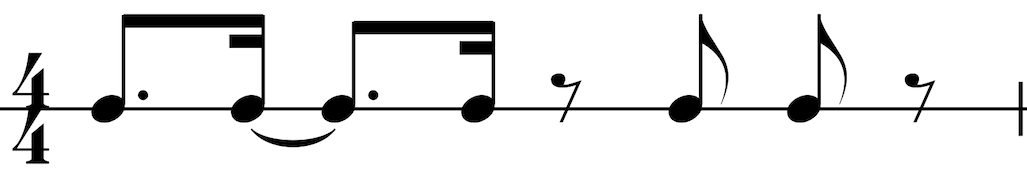
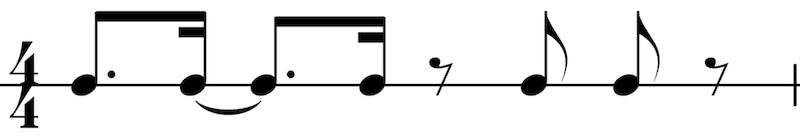
rexize

diff --git a/04_micro/index.html b/04_micro/index.html
@@ -30,7 +30,7 @@ I set out to write an Arduino code that would control a servo motor. The servo m
 
 This is the rhythm in western notation:
 
-<img src="../images/wnrumba.png" alt="rumba clave" width="1027" height="174">
+<img src="../images/wnrumba.png" alt="rumba clave" width="800" height="136">
 
 This is a key showing the sub-divisions of the beat and a representation of the rumba clave in milliseconds:
 
